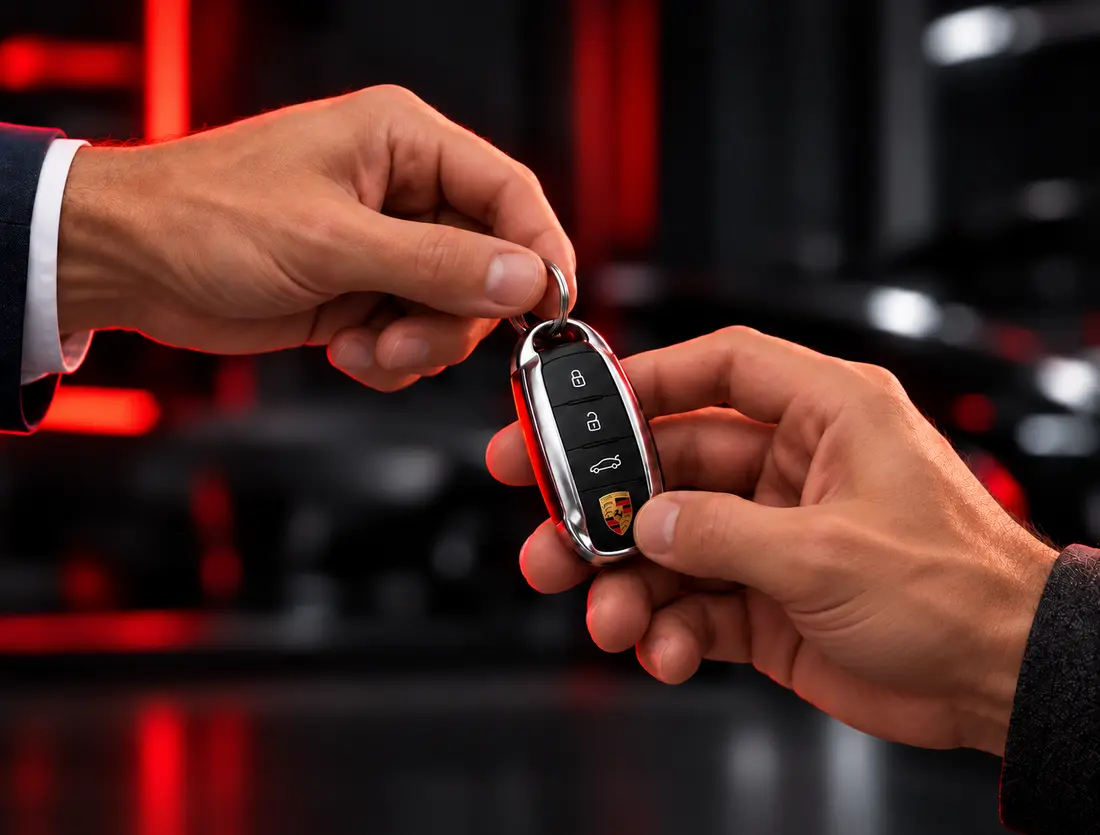
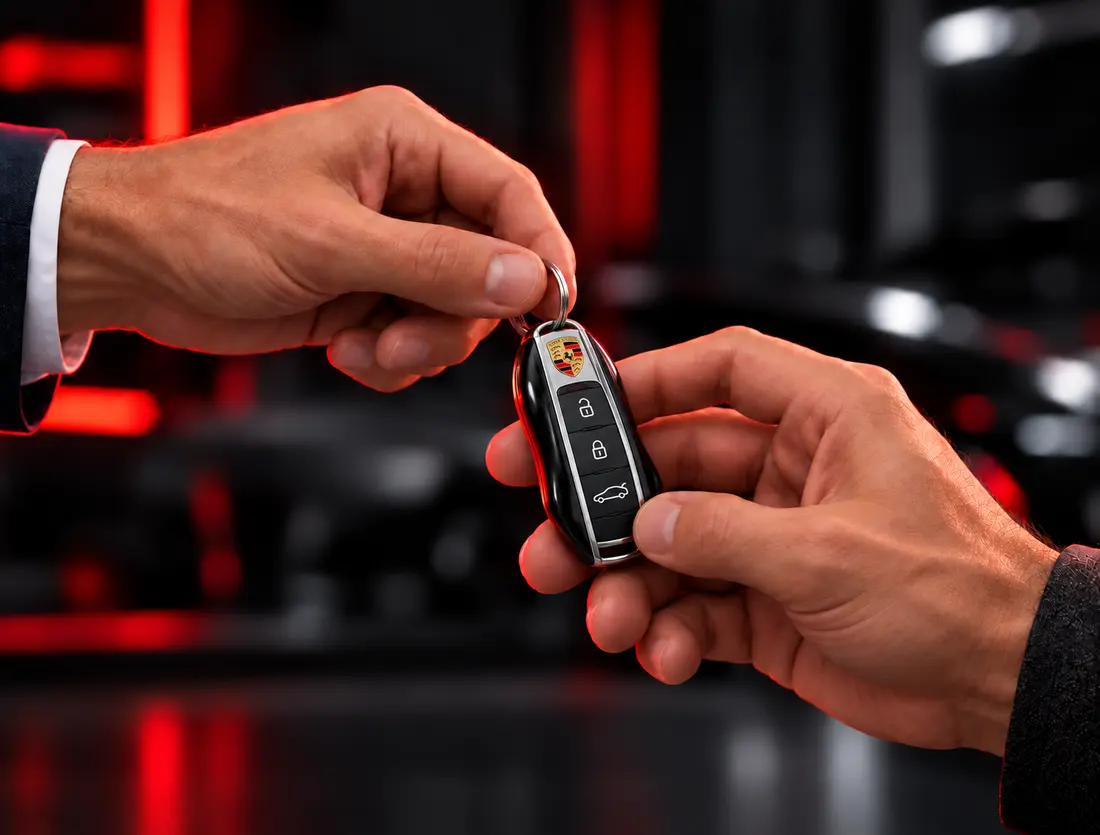
Match Porsche Cayenne key silhouette to reference

diff --git a/index.html b/index.html
@@ -171,7 +171,7 @@
       </div>
       <div class="advantages-grid">
         <article class="advantage-card"><span class="advantage-icon">€</span><small>Transparent kalkuliert</small><h3>Faire Konditionen</h3><p>Klare Leistungen, nachvollziehbare Kosten und eine ehrliche Empfehlung, die zu Ihrem Fahrzeug passt.</p></article>
-        <article class="advantage-card featured pickup-featured"><img class="pickup-handover-photo" src="assets/pickup-key-handover.webp?v=20260928-1341" alt="Persönliche Übergabe eines Porsche-Fahrzeugschlüssels beim Abhol- und Bringservice" loading="lazy"><small>Auf Wunsch</small><h3>Abhol- &amp; Bringservice</h3><p>Wir holen Ihr Fahrzeug bei Ihnen ab und bringen es nach Abschluss der Reparatur wieder zurück.</p></article>
+        <article class="advantage-card featured pickup-featured"><img class="pickup-handover-photo" src="assets/pickup-key-handover.webp?v=20260928-1352" alt="Persönliche Übergabe eines Porsche-Fahrzeugschlüssels beim Abhol- und Bringservice" loading="lazy"><small>Auf Wunsch</small><h3>Abhol- &amp; Bringservice</h3><p>Wir holen Ihr Fahrzeug bei Ihnen ab und bringen es nach Abschluss der Reparatur wieder zurück.</p></article>
         <article class="advantage-card"><span class="advantage-icon">✓</span><small>Erfahren &amp; eingespielt</small><h3>Profi-Team</h3><p>Karosserie, Lack und KFZ-Technik werden bei uns zuverlässig aus einer Hand koordiniert.</p></article>
         <article class="advantage-card"><span class="advantage-icon">P</span><small>Geschützt abgestellt</small><h3>Sichere Stellplätze</h3><p>Ihr Fahrzeug bleibt während des gesamten Aufenthalts ordentlich und sicher bei uns untergebracht.</p></article>
         <article class="advantage-card"><span class="advantage-icon">⚙</span><small>Kurze Wege</small><h3>Schnelle Teilebeschaffung</h3><p>Benötigte Ersatzteile organisieren wir schnell und passend, damit Reparaturzeiten möglichst kurz bleiben.</p></article>
